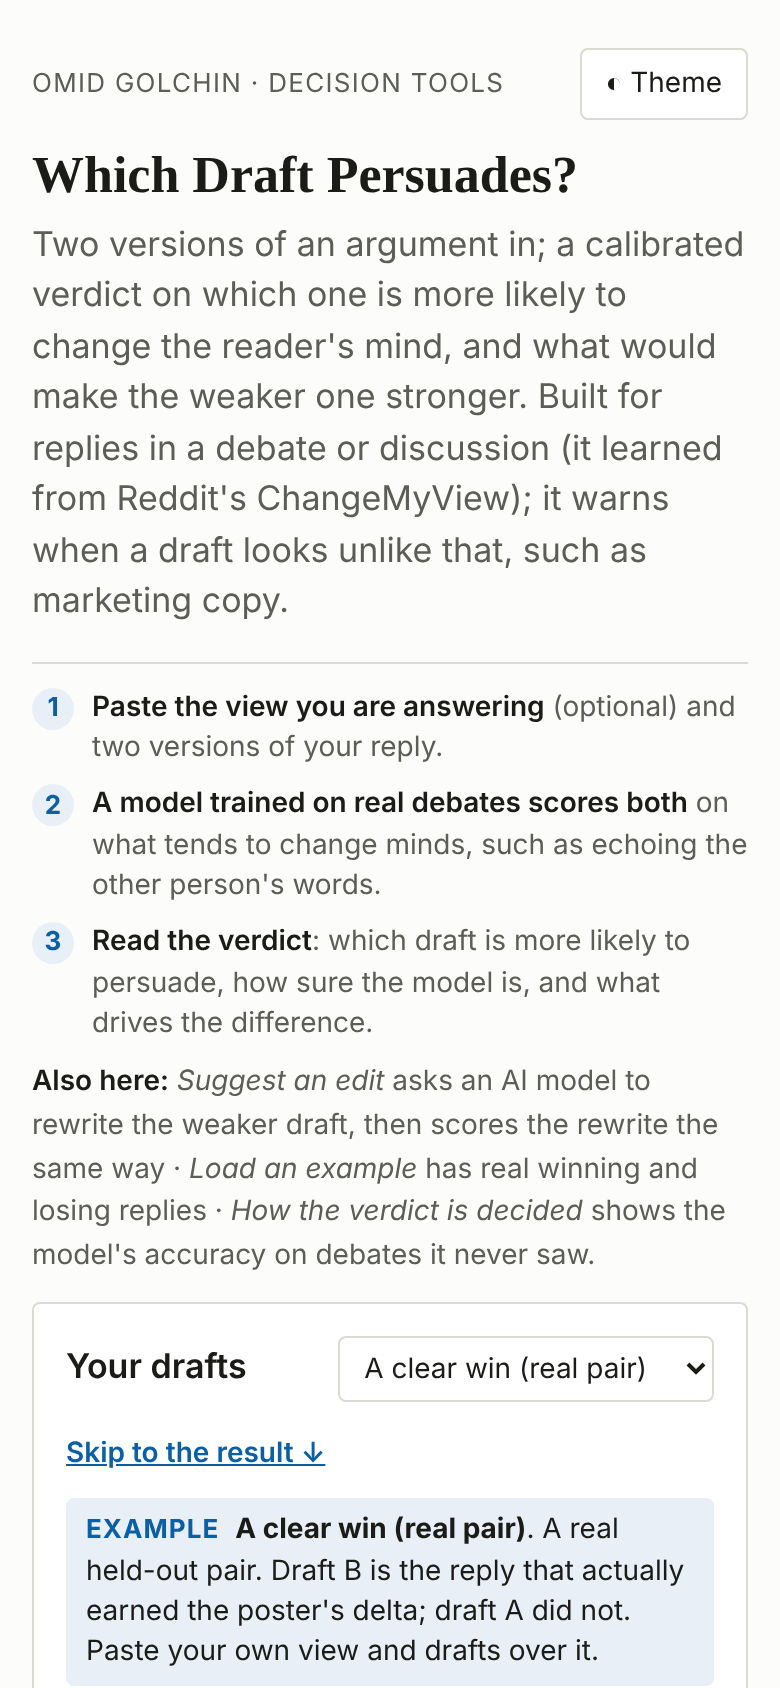
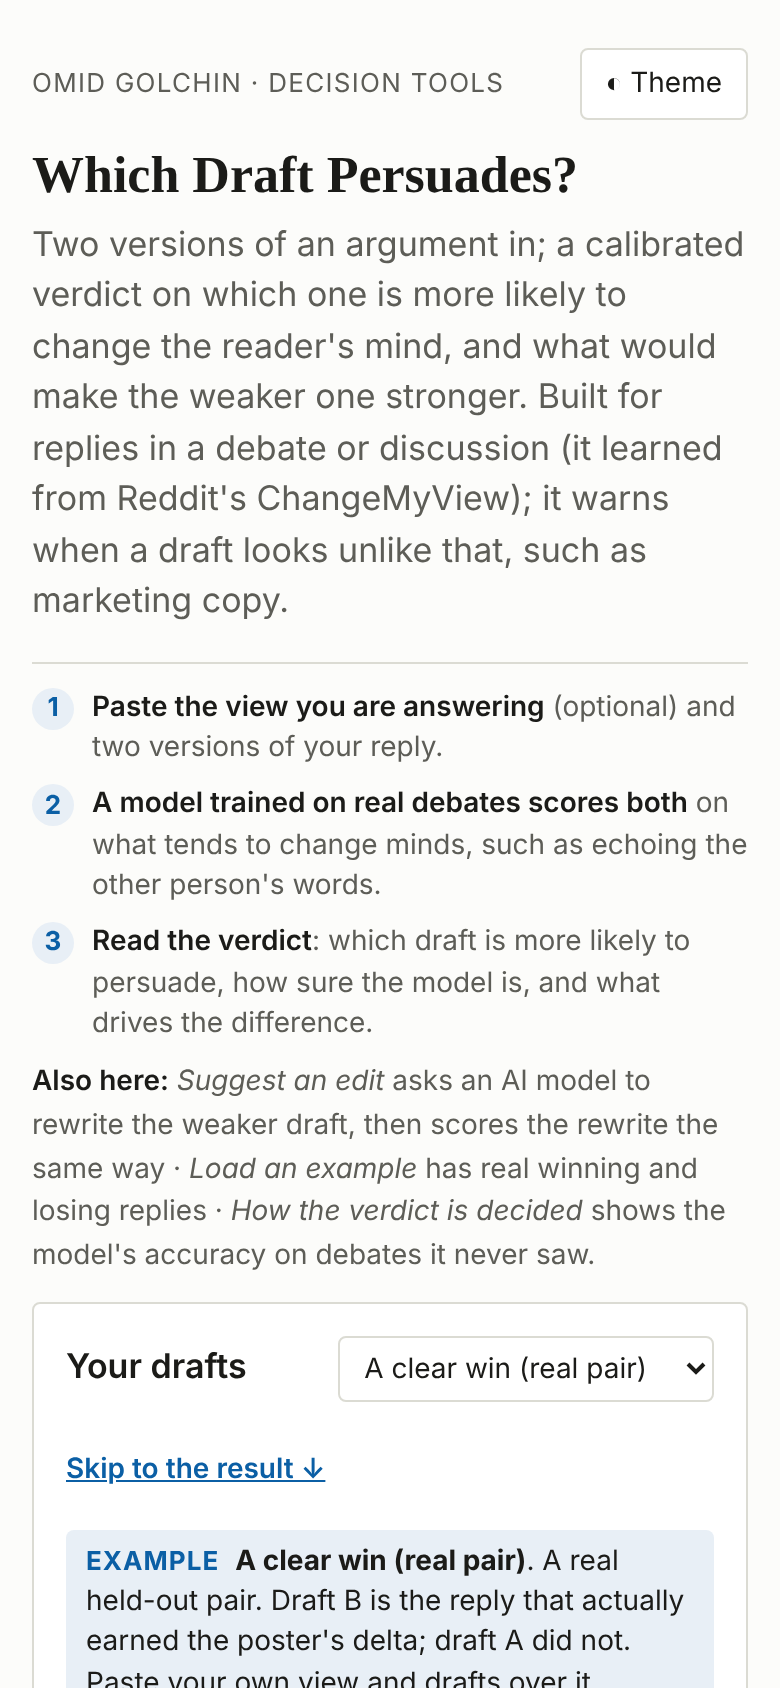
Accuracy shown as 65.6% everywhere, dead example note removed
- The page rebuilt accuracy from a 4-decimal value and showed 65.5%; it now uses the exact share of held-out pairs (529 of 807, 65.6%), matching the README.
- Removed the hidden #exNote element and the code that wrote to it; the banner carries the example note.
- README: the accuracy row is named as on the page.
- Kit: Tool.exampleWatch shows the example banner and hides it at the first real edit; the phone skip link is a 44px tap target; the shared tool list links the renamed llm-eval-error-bars.
- Hero GIF and screenshots regenerated from the updated page.

Changed region(s): [[0.0923, 0.8318, 0.8923, 1.0]]

diff --git a/docs/tool-common.js b/docs/tool-common.js
@@ -10,6 +10,7 @@
  *   Tool.siblings(currentRepo)     the "More tools" footer line, from one shared list
  *   Tool.tabs(tablist)             arrow-key support for a mode switch
  *   Tool.exampleBanner(form, text) marks prefilled example content where it sits
+ *   Tool.exampleWatch(form, text)  same, and hides it at the visitor's first edit
  *
  * No dependencies. Works from file:// and on GitHub Pages.
  */
@@ -497,7 +498,7 @@
     ["bayesian-ab-lab", "A/B Test Decision Tool"],
     ["queue-simulator", "Call Center Staffing Planner"],
     ["experiment-hazard-simulator", "Agent Eval Planner"],
-    ["llm-eval-error-bar", "Error Bars for LLM Evals"],
+    ["llm-eval-error-bars", "Error Bars for LLM Evals"],
     ["ordering-policy-tester", "Ordering Policy Tester"],
     ["order-quantity-planner", "Order Quantity Planner"],
     ["production-line-simulator", "Production Line Bottleneck Finder"],
@@ -549,6 +550,23 @@
     b.hidden = false;
     b.innerHTML = '<span class="ex-tag">Example</span> ' + text;
   }
+  // Show the banner now and hide it at the visitor's first real edit of the form.
+  // Programmatic fills (examples, URL state) do not fire trusted events, and the
+  // example menu itself (.example) is ignored, so loading another example keeps it.
+  function exampleWatch(form, text) {
+    if (!form) return;
+    exampleBanner(form, text);
+    if (form._exWatch) return;
+    form._exWatch = true;
+    var off = function (e) {
+      if (!e.isTrusted) return;
+      var t = e.target;
+      if (t && t.classList && (t.classList.contains("example") || t.closest(".ex-keep"))) return;
+      exampleBanner(form, null);
+    };
+    form.addEventListener("input", off);
+    form.addEventListener("change", off);
+  }
   // On narrow screens the inputs come first; give a way straight to the result.
   function jumpLinks() {
     document.querySelectorAll(".work").forEach(function (w, i) {
@@ -571,7 +589,7 @@
     });
   }
 
-  var api = { explain: explain, alignFields: alignFields, exampleBanner: exampleBanner, jumpLinks: jumpLinks, closeTip: closeTip, siblings: siblings, tabs: tabs, TOOLS: TOOLS, readParams: readParams, writeParams: writeParams, copy: copy, fmt: fmt, lineChart: lineChart, niceTicks: niceTicks, assist: assist, _buildPrompt: buildPrompt, _parseReply: parseReply, _quoteFound: quoteFound, _coerce: coerce };
+  var api = { explain: explain, alignFields: alignFields, exampleBanner: exampleBanner, exampleWatch: exampleWatch, jumpLinks: jumpLinks, closeTip: closeTip, siblings: siblings, tabs: tabs, TOOLS: TOOLS, readParams: readParams, writeParams: writeParams, copy: copy, fmt: fmt, lineChart: lineChart, niceTicks: niceTicks, assist: assist, _buildPrompt: buildPrompt, _parseReply: parseReply, _quoteFound: quoteFound, _coerce: coerce };
   if (typeof module !== "undefined" && module.exports) module.exports = api;
   if (typeof window !== "undefined") window.Tool = api;
 })();

diff --git a/docs/app.js b/docs/app.js
@@ -7,7 +7,9 @@
   var MODEL = window.PERSUADE_MODEL;
   var EXAMPLES = window.PERSUADE_EXAMPLES || [];
   var engine = Persuasion.create(MODEL);
-  var ACC = MODEL.held_out.accuracy, ECE = MODEL.held_out.ece;
+  // accuracy is stored to 4 decimals; rebuild the exact share from the pair count
+  // so the page rounds it the same way as the README (529 of 807 = 65.6%)
+  var PAIRS = MODEL.held_out.pairs, ACC = Math.round(MODEL.held_out.accuracy * PAIRS) / PAIRS, ECE = MODEL.held_out.ece;
 
   /* What the model makes of each feature, in one line (matches the sign
    * of the fitted weight; see results/summary.md). */
@@ -48,7 +50,6 @@
   else if (EXAMPLES.length) { var e0 = EXAMPLES[0]; setInputs(e0.op, e0.a, e0.b); currentExample = 0; $("example").value = "0"; showNote(e0); }
 
   function showNote(ex) {
-    if (ex && ex.note) { $("exNote").textContent = ex.note; $("exNote").hidden = false; } else $("exNote").hidden = true;
     Tool.exampleBanner($("f-main"), ex ? "<b>" + ex.label + "</b>. " + (ex.note ? ex.note + " " : "") + "Paste your own view and drafts over it." : null);
   }
   $("example").addEventListener("change", function () {
@@ -204,7 +205,7 @@
     $("vBody").textContent = parts.join(" ");
 
     var pEqLead = W === "B" ? d.equalLength.pB : 1 - d.equalLength.pB;
-    $("kpiNote").textContent = "Read this as a signal, not a judgment: on " + "807 debates it never saw, the model picked the real winner " + F.pct(ACC, 1) + " of the time (a coin flip is 50%).";
+    $("kpiNote").textContent = "Read this as a signal, not a judgment: on " + F.int(PAIRS) + " debates it never saw, the model picked the real winner " + F.pct(ACC, 1) + " of the time (a coin flip is 50%).";
     $("kpis").innerHTML = [
       [F.pct(p, 0), "chance draft " + W + " persuades", "prob"],
       [F.pct(pEqLead, 0), "at equal length", "eqlen"],

diff --git a/docs/tool.css b/docs/tool.css
@@ -141,4 +141,5 @@ select.example { font-size: var(--fs-small); }
 .ex-banner { margin: 0 0 var(--sp-3); padding: 6px 10px; border-radius: var(--radius); background: var(--accent-soft); color: var(--fg); font-size: var(--fs-small); line-height: 1.45; }
 .ex-banner .ex-tag { display: inline-block; font-size: var(--fs-caption); font-weight: 700; letter-spacing: .04em; text-transform: uppercase; color: var(--accent); margin-right: 4px; }
 .jump { display: none; }
-@media (max-width: 820px) { .jump { display: inline-block; margin: 0 0 var(--sp-3); font-size: var(--fs-small); font-weight: 600; } }
+@media (max-width: 820px) { .jump { display: inline-flex; align-items: center; min-height: 44px; margin: 0 0 var(--sp-2); font-size: var(--fs-small); font-weight: 600; } }
+.ctl-grid .ctl-hint { display: block; margin-top: 4px; font-weight: 400; }

diff --git a/docs/index.html b/docs/index.html
@@ -77,7 +77,6 @@
     </div>
   </div>
 
-  <p class="footnote" id="exNote" hidden style="display:none"></p>
 
   <section class="panel" style="margin-top:16px">
     <h2>What drives the difference <button type="button" data-tip="drivers"></button></h2>

diff --git a/README.md b/README.md
@@ -21,7 +21,7 @@ For anyone choosing between two versions of an argument: paste the view you are 
 
 | Check | What it tells you |
 |---|---|
-| Held-out accuracy | The model was right on 65.6% of 807 held-out pairs it never trained on. Chance is 50%: a real signal, stated so nobody over-trusts the verdict. |
+| Model accuracy | The model was right on 65.6% of 807 held-out pairs it never trained on. Chance is 50%: a real signal, stated so nobody over-trusts the verdict. |
 | Calibration in this band | The held-out reliability band your score falls in, with a 95% interval on its observed win rate: drafts scored 80–90% (84% on average) won 74% of 38 pairs, 58% to 85% once sampling noise is allowed for. A score inside the interval is reported as calibrated, with the gap named when it is 5 points or more; outside it, the check says the model is overconfident there. Average error across bands is about 4 points. |
 | Length | Whether the drafts' size difference is leaning the verdict, with the equal-length score quoted. |
 | Domain | Whether both drafts read like the arguments the model was trained on; flagged drafts get the warning in the verdict as well. |
